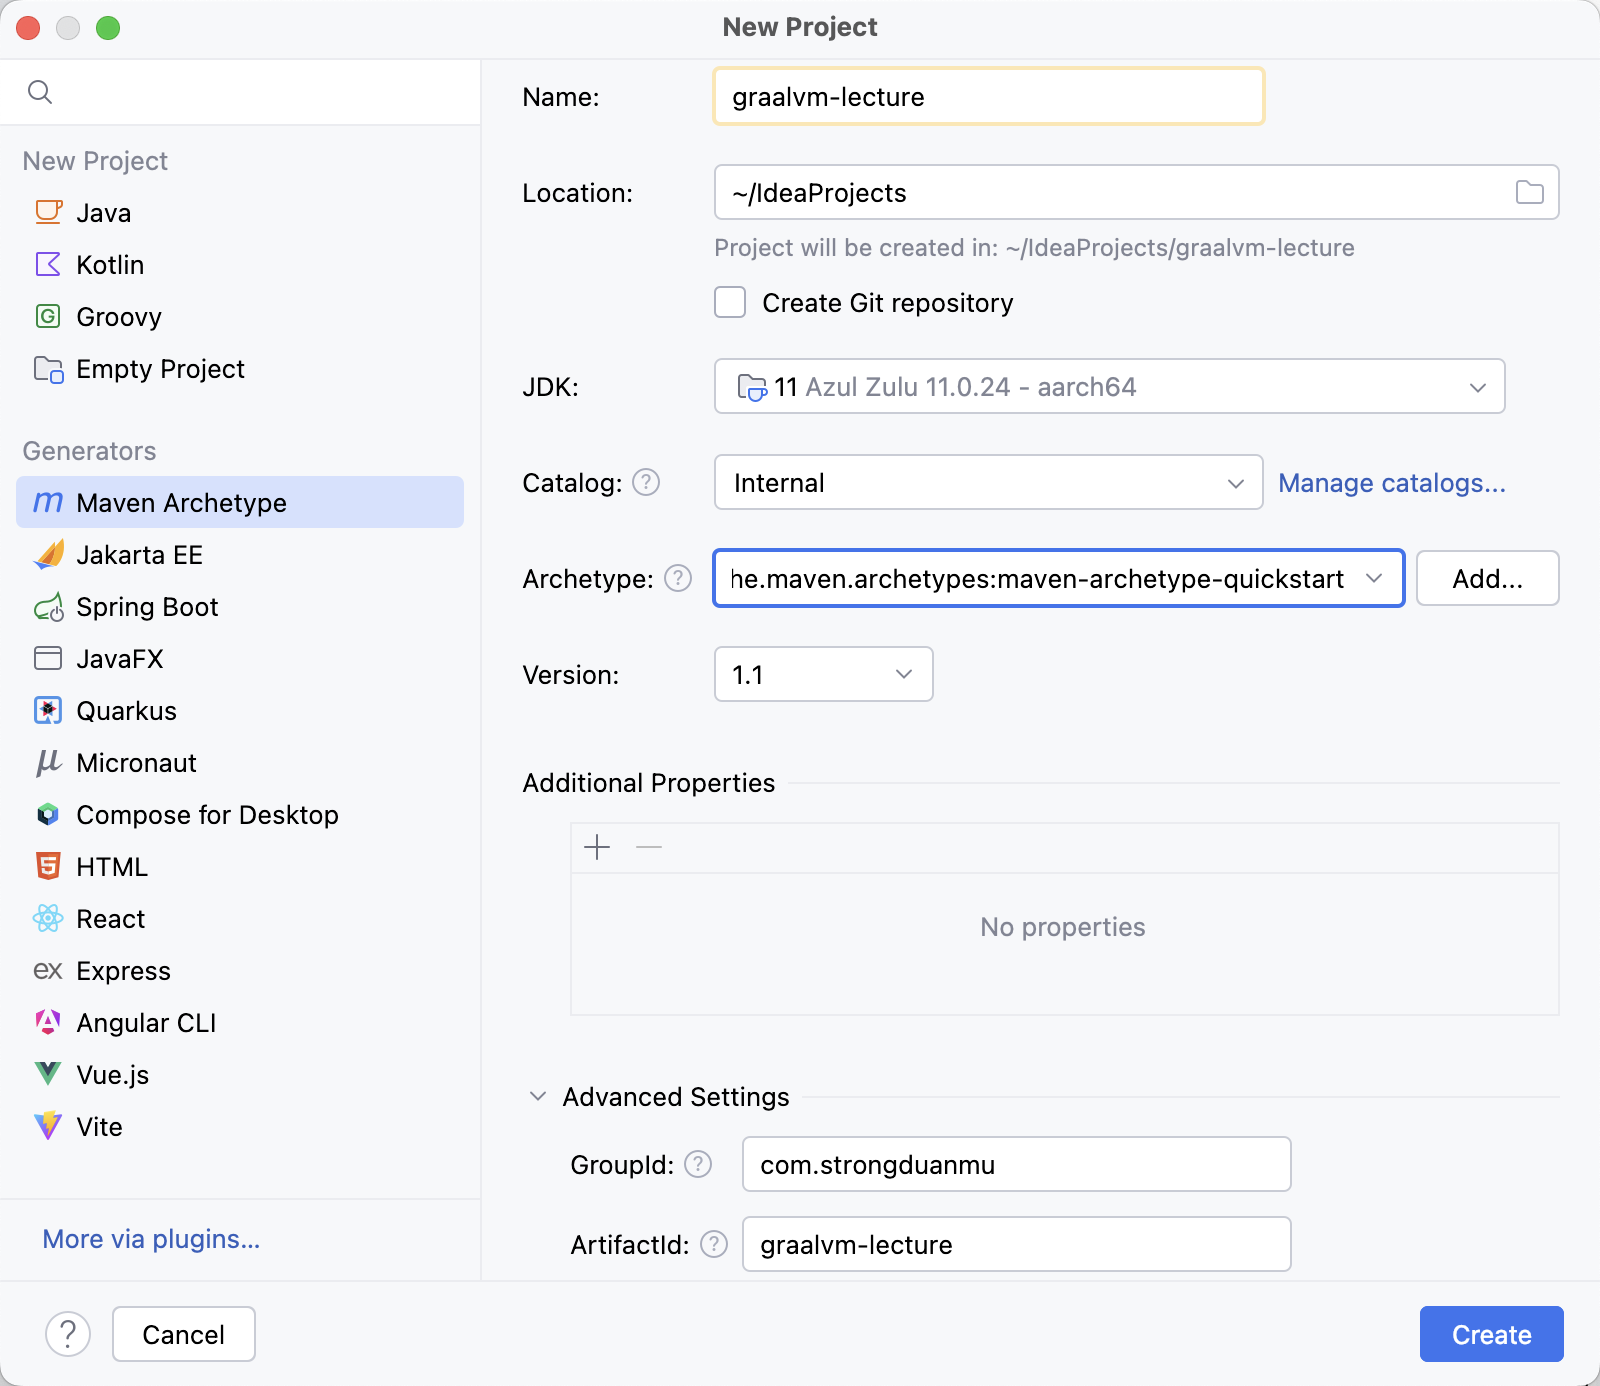
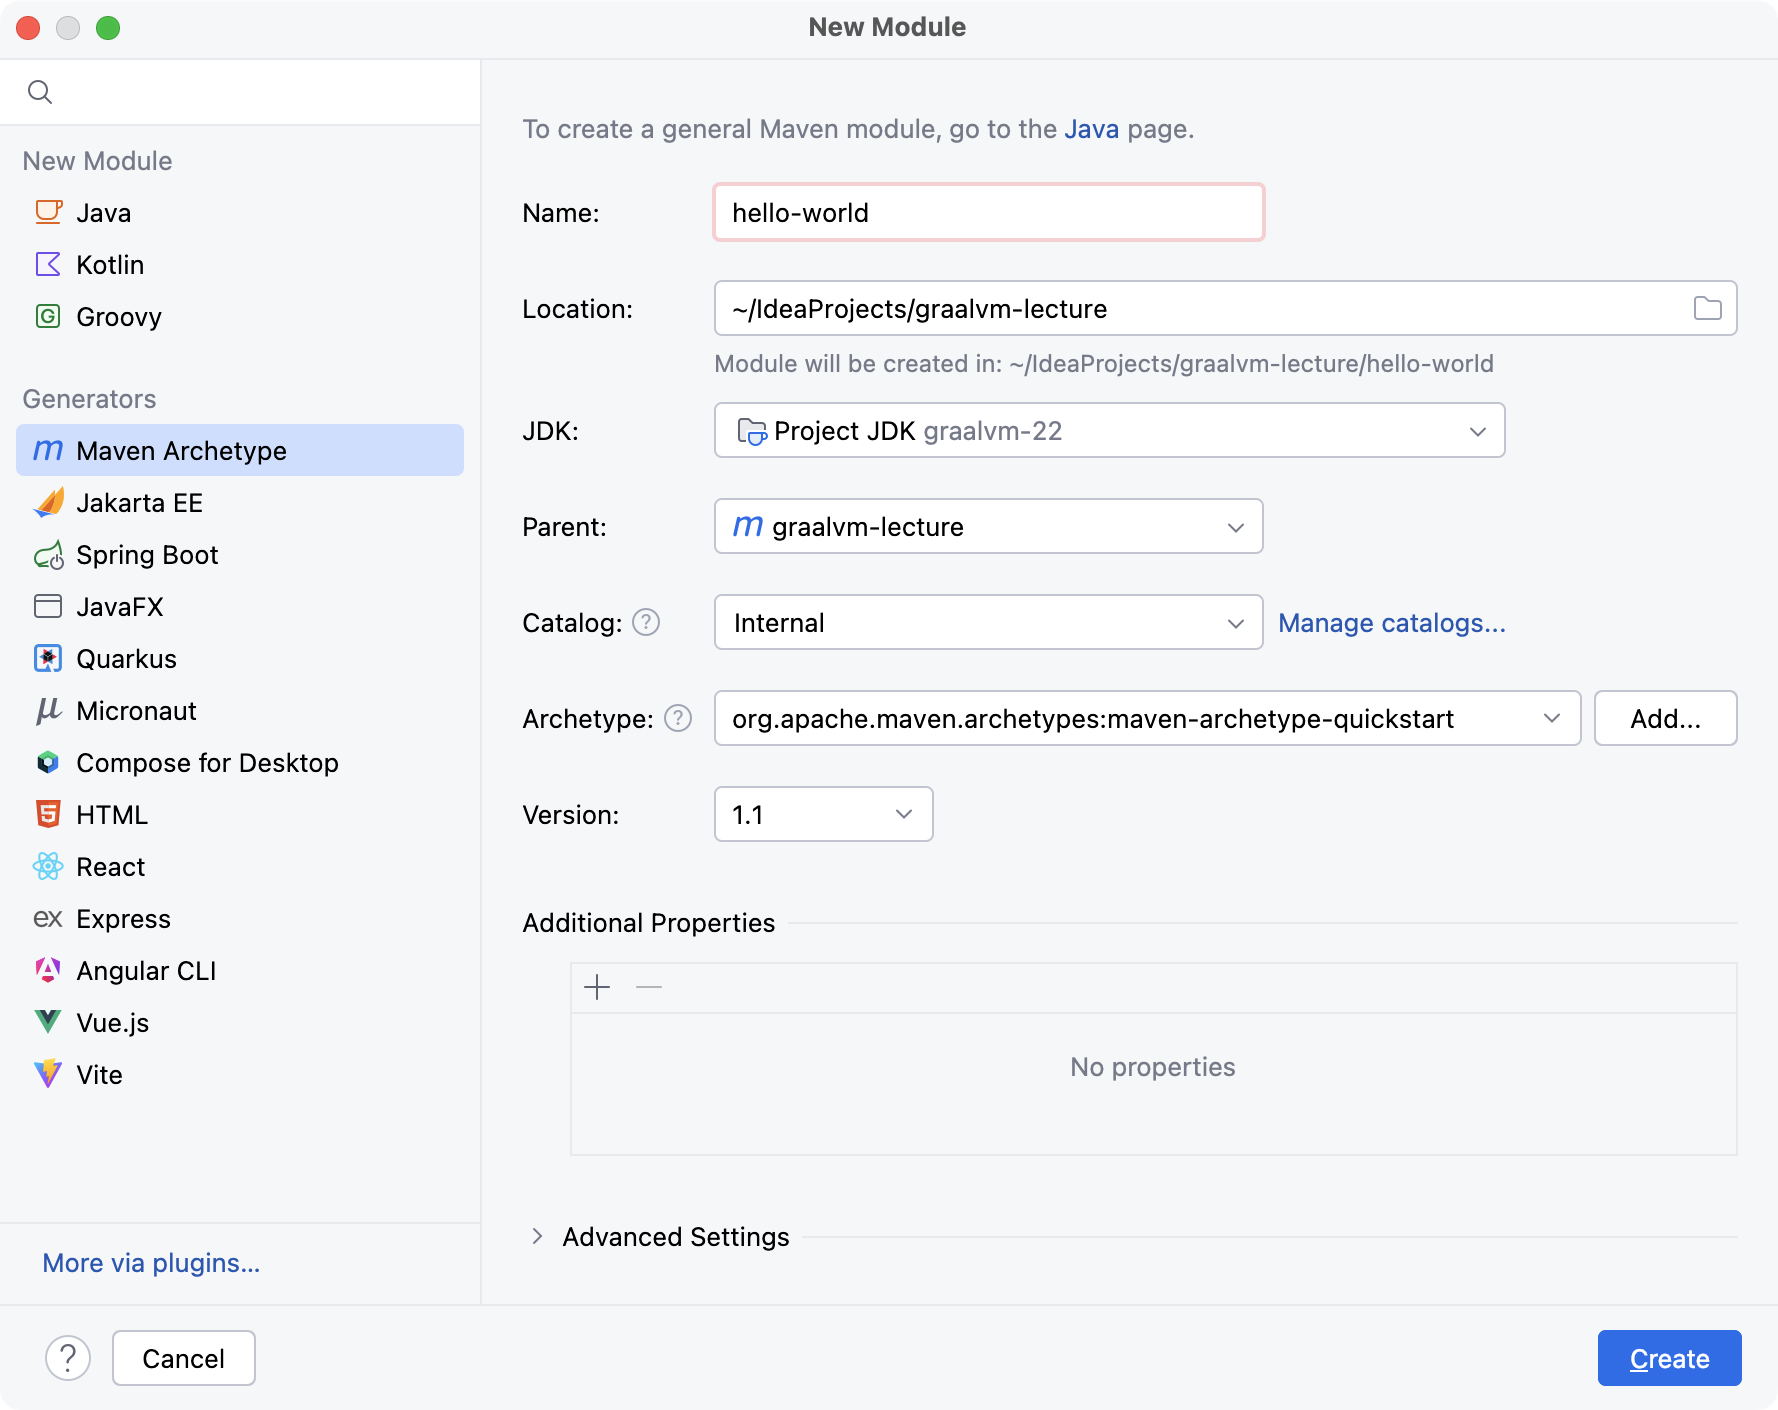
update graalvm

diff --git a/source/_posts/blog/java-aot-compiler-framework-graalvm-quick-start.md b/source/_posts/blog/java-aot-compiler-framework-graalvm-quick-start.md
@@ -3,7 +3,7 @@ title: Java AOT 编译框架 GraalVM 快速入门
 tags: [JVM, GraalVM]
 categories: [GraalVM]
 date: 2024-08-13 08:00:00
-updated: 2024-08-21 08:00:00
+updated: 2024-08-22 08:00:00
 cover: /assets/cover/graalvm.png
 banner: /assets/banner/banner_11.jpg
 topic: jvm
@@ -176,7 +176,7 @@ Hello World! GraalVM!
 
 在实际工作中，我们通常会使用 Maven 或 Gradle 工具，来构建 Native Image。本文将以 Maven 工具为例，为大家介绍下实际项目中如何构建一个 Native Image 可执行文件，Gradle 工具的使用大家可以参考官方文档 [Native-Image#Gradle](https://www.graalvm.org/latest/reference-manual/native-image/#gradle)。
 
-我们使用 IDEA 工具创建 Maven 项目，Archetype 使用 `quickstart`，它可以创建出一个包含 `Hello World!` Demo 的 Maven 项目。
+我们使用 IDEA 工具创建 Maven 项目，首先创建一个名为 `graalvm-lecture` 的 `Empty Project`，然后再其下创建子模块 `hello-world`， Archetype 使用 `quickstart`，它可以创建出一个包含 `Hello World!` Demo 的 Maven 项目。
 
 ![使用 IDEA 创建 Maven 项目](java-aot-compiler-framework-graalvm-quick-start/new-maven-project-with-idea.png)
 
@@ -272,9 +272,175 @@ Hello World!
 
 根据前文的介绍，我们知道 GraalVM AOT 基于**封闭性假设**，即程序在编译期必须掌握运行时所需的所有信息，在运行时不能出现任何编译器未知的内容。Java 程序中包含了很多动态特性，例如：**反射、动态类加载、动态代理、JCA 加密机制（内部依赖了反射）、JNI、序列化等**，这些都违反了封闭性假设。
 
-GraalVM 允许通过配置将缺失的信息补充给编译器以满足封闭性，为此 GraalVM 设计了 `jni-config.json`、`reflect-config.json`、`proxy-config.json`、`resource-config.json`、`predefined-classes-config.json` 和 `serialization-config.json` 配置文件，分别用于JNI 回调目标信息、反射目标信息、动态代理目标接口信息、资源文件信息、提前定义动态类信息、序列化信息。
+GraalVM 允许通过配置将缺失的信息补充给编译器以满足封闭性，为此 GraalVM 设计了 `jni-config.json`、`reflect-config.json`、`proxy-config.json`、`resource-config.json`、`predefined-classes-config.json` 和 `serialization-config.json` 配置文件，分别用于JNI 回调目标信息、反射目标信息、动态代理目标接口信息、资源文件信息、提前定义动态类信息、序列化信息。虽然 JSON 格式便于阅读和编写，但是通过人工方式编写 JSON 配置工作量比较大，也容易出现遗漏，因此 GraalVM 提供了基于 `JVMTI（JVM Tool Interface）` 的 `native-image-agent`，用于挂载在应用程序上，在运行时监控并记录和动态特性相关的函数调用信息。
 
-TODO
+使用 GraalVM SDK，执行 `java -agentlib:native-image-agent=config-output-dir=/path/to/config-dir/ ...`（注意：`-agentlib` 参数声明在 `-jar`、类名或者参数命令之前指定） 命令启动代理，在程序运行时，Agent 工具会查找 `native-image` 需要的类、字段、方法和资源等信息，当程序运行结束时，会将可达性元数据 [Reachability Metadata](https://www.graalvm.org/latest/reference-manual/native-image/metadata/) 写入到指定目录的 JSON 文件中。
+
+此外，Agent 工具还支持使用 `config-write-period-secs=n` 指定写入元数据的间隔，以及使用 `config-write-initial-delay-secs=n` 指定首次写入元数据的延迟时间。
+
+```bash
+java -agentlib:native-image-agent=config-output-dir=/path/to/config-dir/,config-write-period-secs=300,config-write-initial-delay-secs=5 ...
+```
+
+通常，建议将元数据文件写入到类路径 `META-INF/native-image/` 下，这样 `native-image` 工具就能自动地查找该目录下定义的 JSON 文件，满足 GraalVM AOT 封闭性。在 Java 程序中，最常见的动态特性是反射，下面我们以一个简单的反射程序为例，介绍下如何使用 Tracing Agent 收集元数据，以及如何使用元数据来执行包含反射的 Native 程序。
+
+我们在上一个案例的 Maven 项目中创建一个 `reflection` 子模块，并添加如下的 `Reflection` 和 `StringReverser` 类，Reflection 类根据参数传递的类名、方法名和方法参数，进行反射调用。
+
+```java
+public final class Reflection {
+    
+    @SneakyThrows
+    public static void main(final String[] args) {
+        if (3 != args.length) {
+            throw new IllegalArgumentException("You must provide class name, method name and arguments.");
+        }
+        String className = args[0];
+        String methodName = args[1];
+        String arguments = args[2];
+        Class<?> clazz = Class.forName(className);
+        Method method = clazz.getDeclaredMethod(methodName, String.class);
+        Object result = method.invoke(null, arguments);
+        System.out.println(result);
+    }
+}
+```
+
+StringReverser 类逻辑也比较简单，根据输入的字符串，实现反转并输出。
+
+```java
+@SuppressWarnings("unused")
+public final class StringReverser {
+    
+    public static String reverse(final String input) {
+        return new StringBuilder(input).reverse().toString();
+    }
+}
+```
+
+然后我们通过 IDEA 运行反射程序，并传入参数 `com.strongduanmu.StringReverser reverse "Hello World!"`，执行后输出 `!dlroW olleH`。
+
+![使用 IDEA 运行反射程序](java-aot-compiler-framework-graalvm-quick-start/run-reflection-with-idea.png)
+
+JVM 运行反射很容易，下面我们再来使用 GraalVM AOT 编译，尝试下运行反射程序，首先在 pom 中添加 `native-maven-plugin` 插件，然后执行 `./mvnw -Pnative clean package -f reflection` 进行编译。
+
+```xml
+<properties>
+    <project.build.sourceEncoding>UTF-8</project.build.sourceEncoding>
+    <native.image.name>Reflection</native.image.name>
+    <native.maven.plugin.version>0.10.2</native.maven.plugin.version>
+</properties>
+
+<build>
+    <plugins>
+        <plugin>
+            <groupId>org.apache.maven.plugins</groupId>
+            <artifactId>maven-compiler-plugin</artifactId>
+            <version>3.12.1</version>
+            <configuration>
+                <fork>true</fork>
+            </configuration>
+        </plugin>
+        <plugin>
+            <groupId>org.apache.maven.plugins</groupId>
+            <artifactId>maven-jar-plugin</artifactId>
+            <version>3.3.0</version>
+            <configuration>
+                <archive>
+                    <manifest>
+                        <mainClass>com.strongduanmu.Reflection</mainClass>
+                        <addClasspath>true</addClasspath>
+                    </manifest>
+                </archive>
+            </configuration>
+        </plugin>
+    </plugins>
+</build>
+
+<profiles>
+    <profile>
+        <id>native</id>
+        <build>
+            <plugins>
+                <plugin>
+                    <groupId>org.graalvm.buildtools</groupId>
+                    <artifactId>native-maven-plugin</artifactId>
+                    <version>${native.maven.plugin.version}</version>
+                    <extensions>true</extensions>
+                    <configuration>
+                        <imageName>${native.image.name}</imageName>
+                        <buildArgs>
+                            <buildArg>--no-fallback</buildArg>
+                        </buildArgs>
+                    </configuration>
+                    <executions>
+                        <execution>
+                            <id>build-native</id>
+                            <goals>
+                                <goal>compile-no-fork</goal>
+                            </goals>
+                            <phase>package</phase>
+                        </execution>
+                        <execution>
+                            <id>test-native</id>
+                            <goals>
+                                <goal>test</goal>
+                            </goals>
+                            <phase>test</phase>
+                        </execution>
+                    </executions>
+                </plugin>
+            </plugins>
+        </build>
+    </profile>
+</profiles>
+```
+
+编译完成后，我们执行 `./reflection/target/Reflection com.strongduanmu.StringReverser reverse "Hello World\!"`，出现了如下报错：
+
+```
+Exception in thread "main" java.lang.ClassNotFoundException: com.strongduanmu.StringReverser
+        at org.graalvm.nativeimage.builder/com.oracle.svm.core.hub.ClassForNameSupport.forName(ClassForNameSupport.java:143)
+        at org.graalvm.nativeimage.builder/com.oracle.svm.core.hub.ClassForNameSupport.forName(ClassForNameSupport.java:106)
+        at java.base@22.0.2/java.lang.Class.forName(DynamicHub.java:1387)
+        at java.base@22.0.2/java.lang.Class.forName(DynamicHub.java:1352)
+        at java.base@22.0.2/java.lang.Class.forName(DynamicHub.java:1346)
+        at com.strongduanmu.Reflection.main(Reflection.java:17)
+        at java.base@22.0.2/java.lang.invoke.LambdaForm$DMH/sa346b79c.invokeStaticInit(LambdaForm$DMH)
+```
+
+提示无法找到 `com.strongduanmu.StringReverser` 类，我们的源码中不是已经定义了这个类吗？这个异常是因为 GraalVM AOT 编译时，会进行静态分析，由于 StringReverser 类程序中没有明确的调用，因此静态分析不会将其包含在本地执行文件中。为了支持反射功能，我们需要借助 GraalVM Tracing Agent 进行元数据收集，并将其以 JSON 格式配置在项目的 `META-INF/native-image` 目录中。
+
+首先，我们在项目中创建 `META-INF/native-image` 目录：
+
+```bash
+mkdir -p ./reflection/src/main/resources/META-INF/native-image
+```
+
+然后，在 JVM 反射程序中开启 Agent 代理，添加如下参数并执行字符串反转程序（**注意，Tracing Agent 是 GraalVM 提供的功能，需要注意 JDK 的选择**）：
+
+```shell
+-agentlib:native-image-agent=config-output-dir=META-INF/native-image
+```
+
+![配置 Agent 运行反射程序](java-aot-compiler-framework-graalvm-quick-start/run-reflection-with-agent.png)
+
+执行完成后会生成前面介绍的 6 个 JSON 文件，我们以 `reflect-config.json` 为例，文件里面声明了程序运行过程中使用到的类、方法和参数。
+
+```json
+[
+{
+  "name":"com.strongduanmu.StringReverser",
+  "methods":[{"name":"reverse","parameterTypes":["java.lang.String"] }]
+}
+]
+```
+
+我们使用 `./mvnw -Pnative clean package -f reflection` 再次进行编译，然后执行 `./reflection/target/Reflection com.strongduanmu.StringReverser reverse "Hello World\!"`，此时程序可以正常运行。
+
+```bash
+./reflection/target/Reflection com.strongduanmu.StringReverser reverse "Hello World\!"
+!dlroW olleH
+```
 
 ## 结语
 
@@ -282,6 +448,6 @@ TODO
 
 然后我们对比了 GraalVM AOT 编译和传统的 JIT 编译之间的优势和劣势，GraalVM AOT 目前更适用于对启动速度、内存消耗有较高要求的场景，而对于吞吐量、延迟有较高要求的场景，则更推荐采用传统的 JIT 编译方式。此外，GraalVM AOT 编译带来的生态变化，会导致传统 Java 程序的监控、调试、Agent 技术不再适用，这些需要在选型 GraalVM AOT 技术时进行充分考虑。
 
-最后一个部分，我们介绍了 GraalVM AOT 实战，从基础的 SDK 安装，到第一个 HelloWorld 程序，带大家一起体验了下 GraalVM 的基础使用。然后我们又参考了项目实际情况，使用 Maven 工具构建了一个简单的二进制程序。
+最后一个部分，我们介绍了 GraalVM AOT 实战，从基础的 SDK 安装，到第一个 HelloWorld 程序，带大家一起体验了下 GraalVM 的基础使用。然后我们参考了项目实际情况，使用 Maven 工具构建了一个简单的二进制程序。此外，由于现实中的 Java 程序具有很多动态特性，我们展示了反射程序如何通过 Agent 收集元数据，并将元数据维护在 `META-INF/native-image` 目录下，最终成功执行了带有反射的本地程序。
 
-TODO
+GraalVM 为 Java 领域带来新的发展机遇，相信随着 GraalVM 的成熟，越来越多应用程序将以 Native 的方式运行在不同环境中。作为 Java 工程师，也需要紧跟时代发展，不断探索新的技术，完善自己的技能栈。本系列后续还会探究更多关于 GraalVM 的新技术，欢迎感兴趣的朋友持续关注，本文如有不足之处，也欢迎留言探讨。
